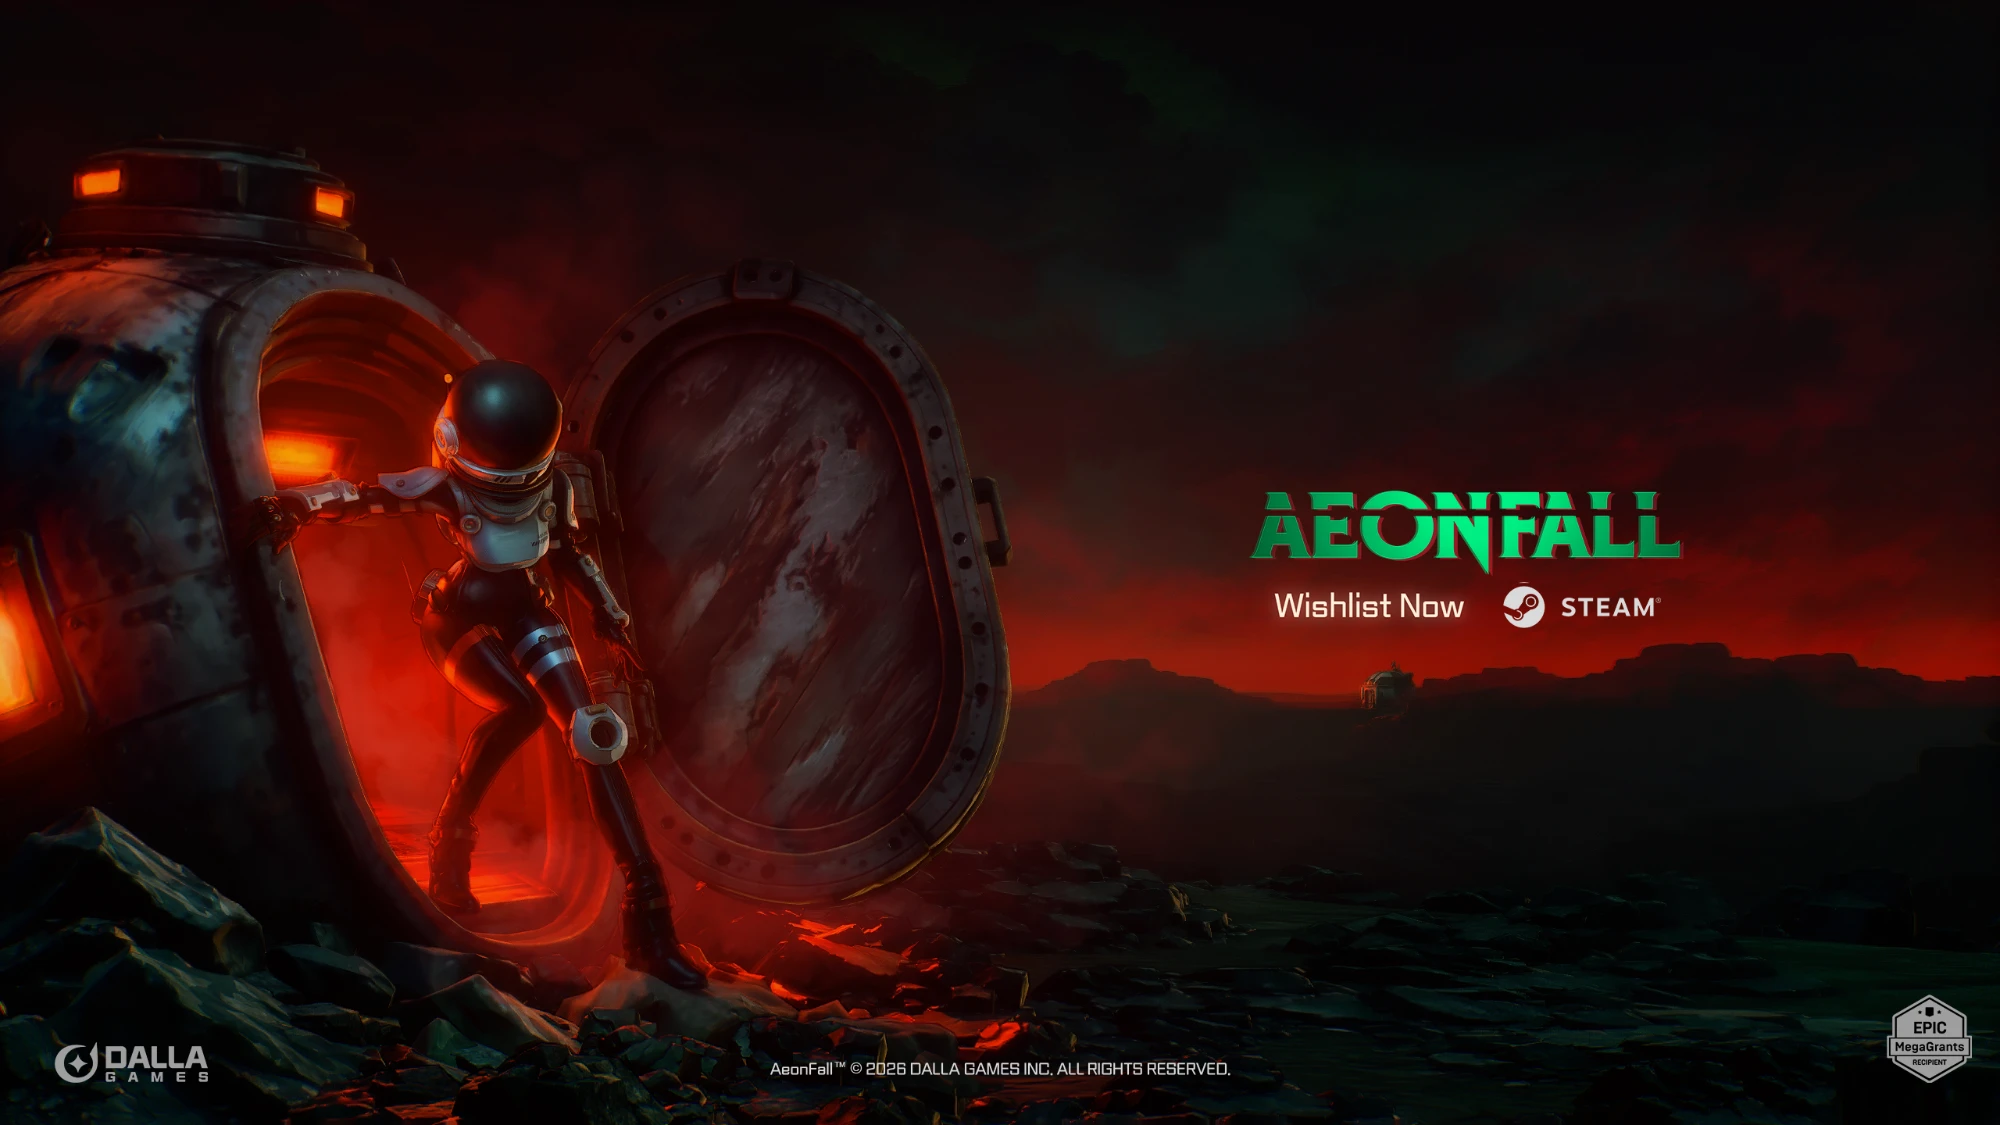
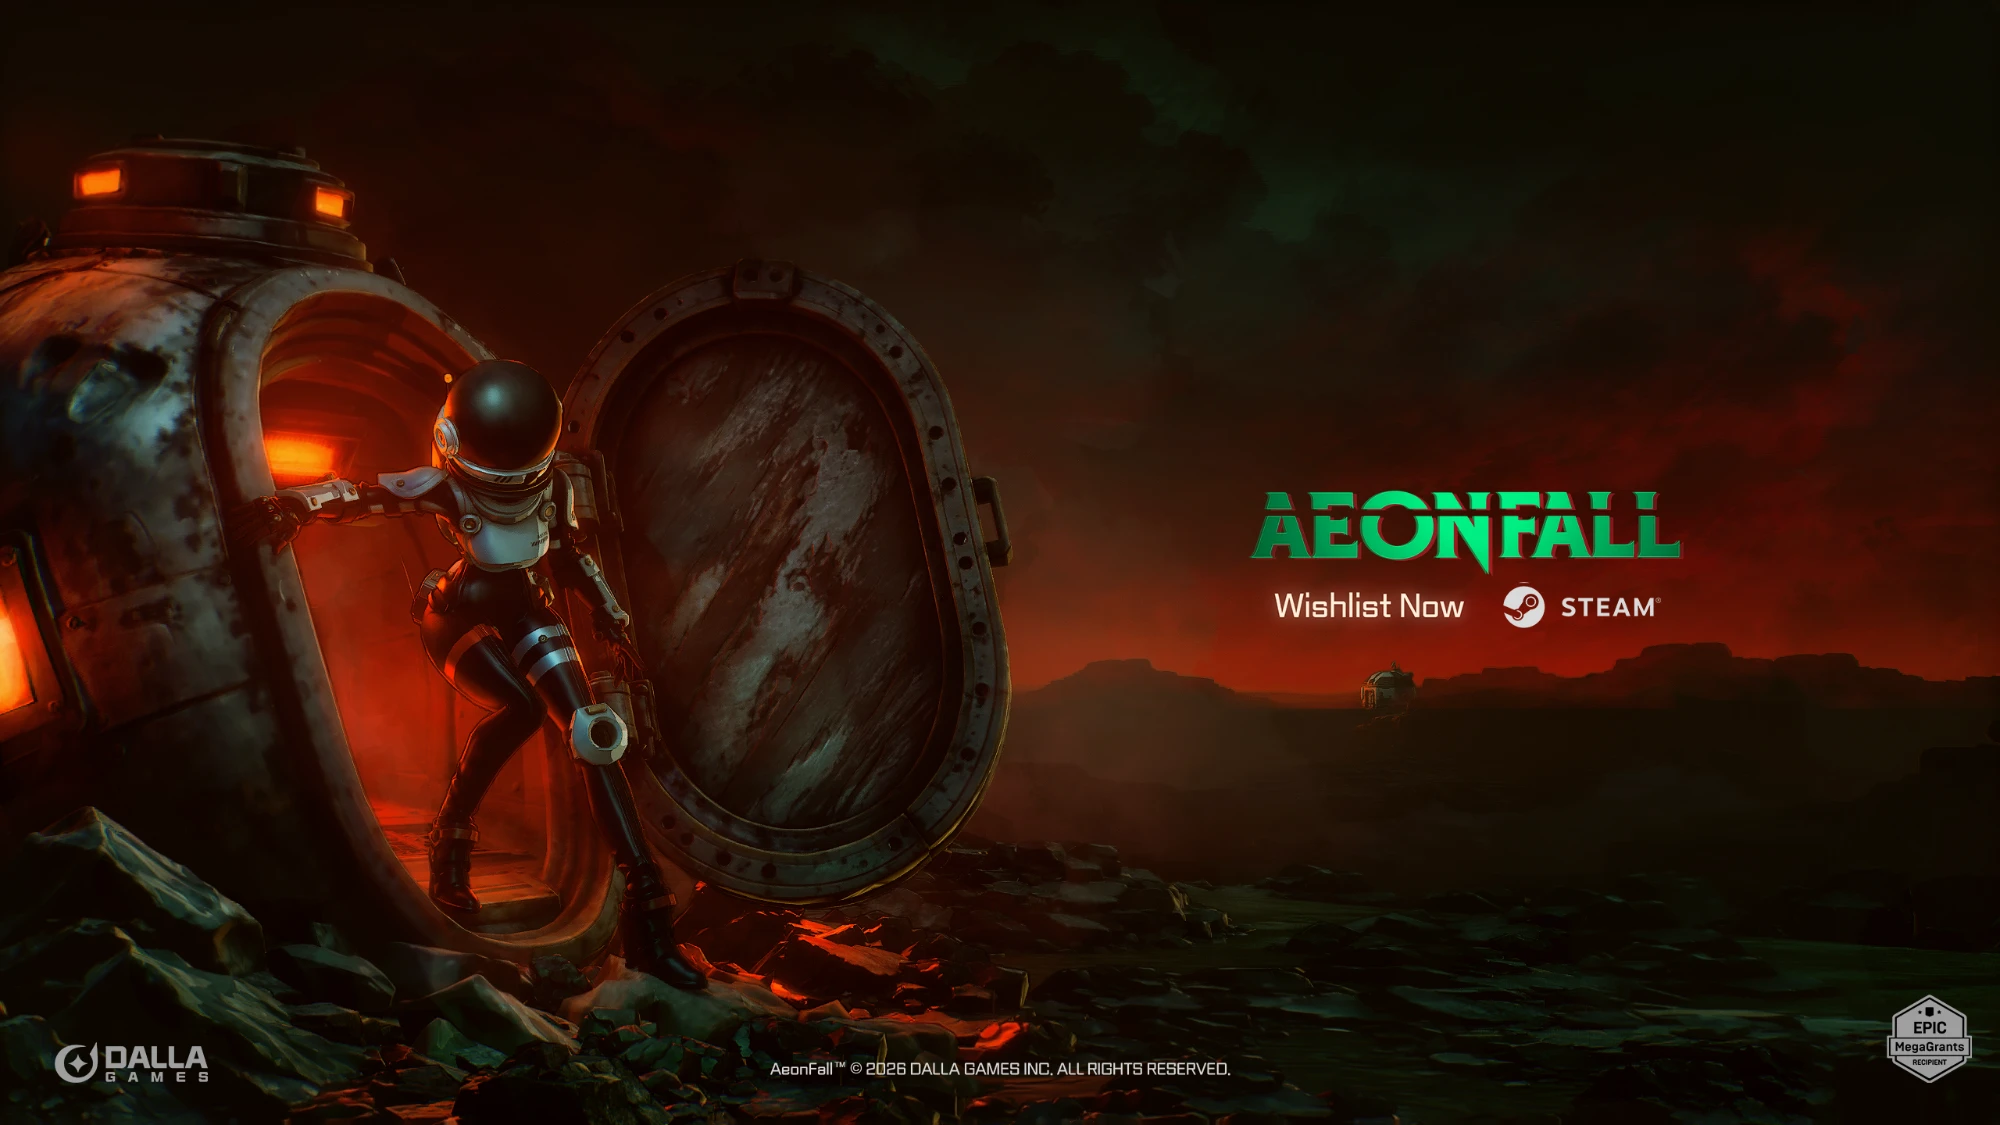
OUR GAME key art: updated color grade

diff --git a/index.html b/index.html
@@ -542,7 +542,7 @@
         <div class="games-grid">
           <!-- 위: 게임 키아트 (한 줄 전체 폭) -->
           <div class="games-art">
-            <img src="images/game-art.webp?v=6" alt="AeonFall key art" />
+            <img src="images/game-art.webp?v=7" alt="AeonFall key art" />
           </div>
 
           <!-- 아래: 4가지 특징 (PC 4칸 / 태블릿 2×2 / 모바일 1칸) -->
